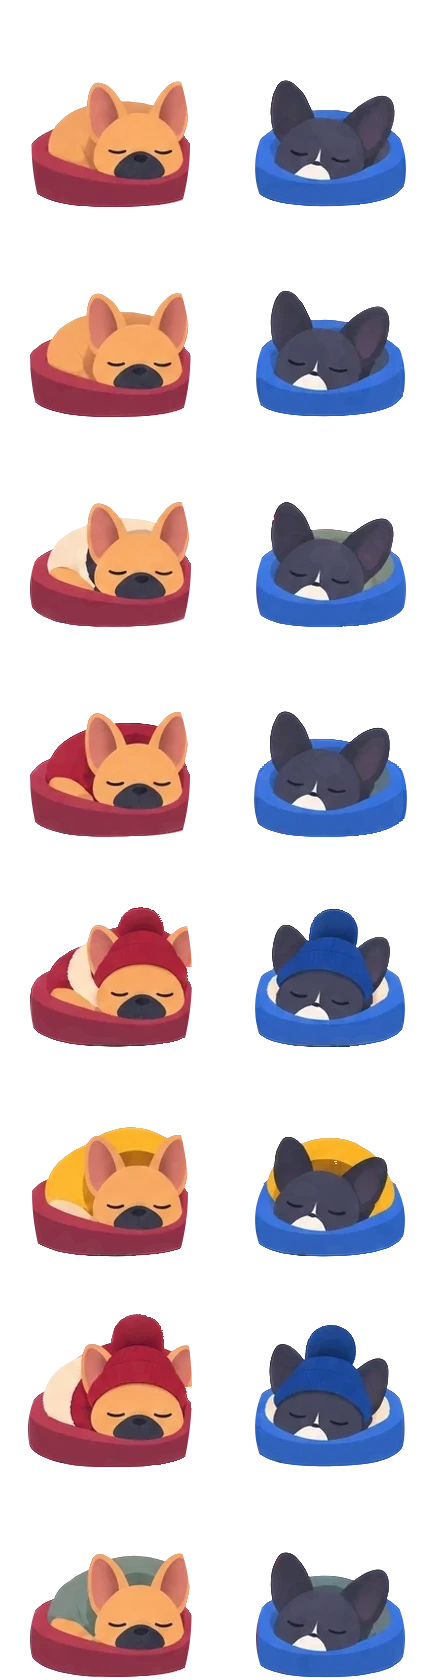
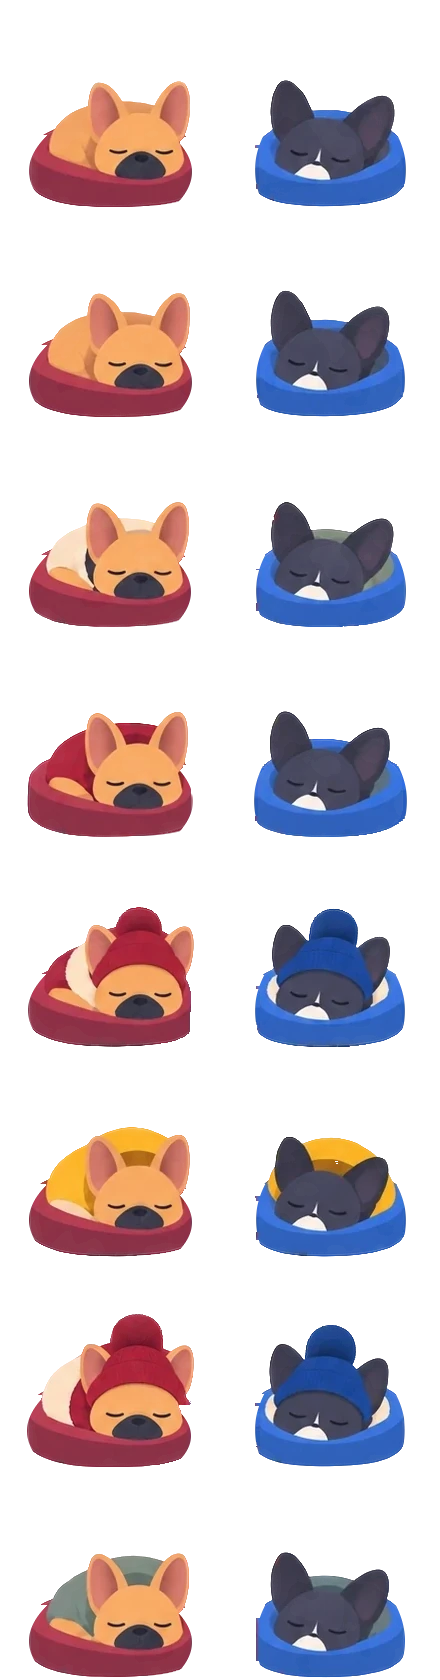
Geometrisk: rundare röd sovbädd (förslag)
Agent: Claude
Claude-Session: https://claude.ai/code/session_01Cu2PzoUmTvqaxKD8Xm5WSv

diff --git a/verktyg/sovbaddar.py b/verktyg/sovbaddar.py
@@ -37,7 +37,7 @@ for k,f in enumerate(range(1,16,2)):
         sw=inside.copy()
         for s_ in range(1,26):sw[:-s_]=np.maximum(sw[:-s_],inside[s_:])
         inside=sw
-        for yv in (range(hw) if d==0 else []):
+        for yv in (range(max(0,np.where((keep&bc&(A>200)).any(axis=1))[0].max()-62),hw) if d==0 else []):  # bara bäddens rader, inte mössan
             row=np.where(keep[yv]&(a[yv]>0))[0]
             if not len(row):continue
             bed=np.where(keep[yv]&bc[yv]&(A[yv]>200))[0]
@@ -77,24 +77,24 @@ for k,f in enumerate(range(1,16,2)):
                     if 0<=xo+s_<ww:a[yv,xo+s_]=0
         # bäddens sidor: raka väggar blir mjuka bågar (Henrik: runda kanterna). Indraget växer i kvadrat från
         # väggens mitt mot dess över- och underkant; bara rader där bädden ligger ytterst rörs.
-        bedc=lambda c:(c[2]>c[0]+40) if d else ((c[0]>c[1]+40) or c.max()<90)
+        bedc=lambda c:(c[2]>c[0]+40) if d else ((c[0]>c[1]+60 and c[1]<90) or c.max()<90)
         for s_ in(-1,1):
             rows=[]
-            for yv in range(Bb+3,0,-1):
+            for yv in range(Bb+3,Bb-(62 if s_>0 and d==0 and f in (9,13) else 72),-1):  # bara bäddens rader (mössan i bildruta 9 och 13 når ned till höger)
                 xs_=np.where(a[yv]>128)[0]
                 if not len(xs_):continue
                 xe=xs_.min() if s_<0 else xs_.max()
                 if not bedc(img[yv,xe-s_*2,:3].astype(int)):break
                 rows.append(yv)
             if len(rows)<8:continue
-            yt,yb_=min(rows),max(rows);ym=(yt+yb_)/2;hh=(yb_-yt)/2;IM=9
+            yt,yb_=min(rows),max(rows);ym=(yt+yb_)/2;hh=(yb_-yt)/2;IM=18 if d==0 else 9  # röda bädden rundas mer (Henrik)
             xe0=np.median([ (np.where(a[yv]>128)[0].min() if s_<0 else np.where(a[yv]>128)[0].max()) for yv in rows if abs(yv-ym)<hh*.3])
             for yv in rows:
                 ins=IM*((yv-ym)/hh)**2;lim=xe0-s_*ins  # gränsen för denna rad
-                xs_=np.where(a[yv]>0)[0]
-                for xv in xs_:
-                    o=s_*(xv-lim)  # >0 utanför bågen
-                    if o>0:a[yv,xv]=int(a[yv,xv]*np.clip(1-o,0,1))
+                xs_=np.where(a[yv]>0)[0];xv=xs_.min() if s_<0 else xs_.max()
+                while 0<=xv<ww and s_*(xv-lim)>0:  # utifrån och in, bara så länge det är bädd (inte öron)
+                    if a[yv,xv]>128 and not bedc(img[yv,xv,:3].astype(int)):break
+                    a[yv,xv]=int(a[yv,xv]*np.clip(1-s_*(xv-lim),0,1));xv-=s_
         ys,xs=np.where(a>20);bx=(xs.min()+xs.max())/2;by=ys.max()
         ox=int(round(W/2-bx));oy=H-4-by
         cell=np.zeros((H,W,4),np.int32);

diff --git a/OVERLAMNING.md b/OVERLAMNING.md
@@ -21,7 +21,7 @@ Claude och Codex: läs AGENTS.md och denna fil. Repot är gemensamt minne; läs 
 
 - Claude. Henrik 2026-11-02: sovande hund/bädd för stor, grannens bäddkant syntes, bäddarna klipptes. Orsak: liggrutorna i hundarket är bredare än cellerna, och blå bädden är avhuggen i båda ändarna redan i arket (cellkanten).
 - Åtgärd: eget ark `sleep-v1.webp` från `verktyg/sovbaddar.py` (vattendelare efter bäddfärg; röda högra änden rundas efter ellips; blå bädden förlängs till röda bäddens bredd och rundning; sidorna böjs till mjuka bågar). `geoSleepSvg` i 75 % storlek; i geo får liggande par fasta platser (`one` i figSvg) så att de aldrig överlappar oavsett ordning.
-- Bilder /mnt/project-files/geo-forslag/11-*.png, 12-runda-baddar.png. Röktester gröna. Väntar på ”Pusha” (då version.js, ångra-gren).
+- Bilder /mnt/project-files/geo-forslag/11-*.png, 13-rundare-rod-badd.png. Röktester gröna. Väntar på ”Pusha” (då version.js, ångra-gren).
 
 ## Börja här
 
